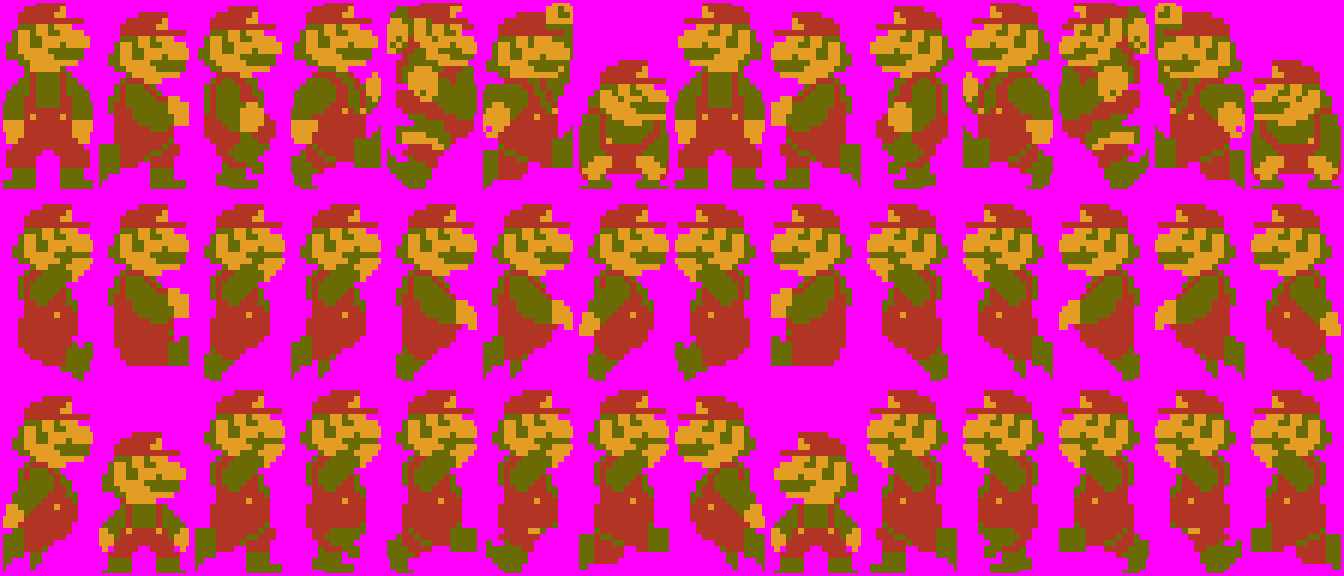
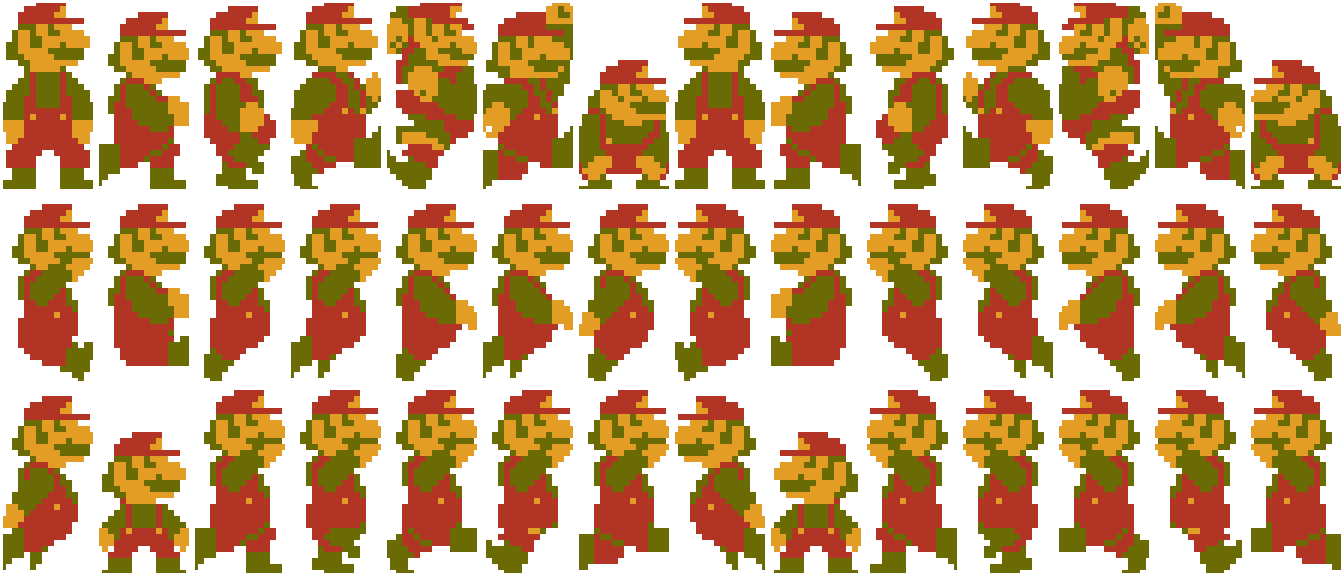
Fix transparency and tune walk animation for big_mario
- Switch spritesheet to RGBA with alpha=0 background (fixes magenta box)
- Update build_mirrored_sheet.py to generate alpha-transparent PNG
- Set transparency tag to 'transparent' to match how eSheep reads alpha PNGs
- Tune walk speed: x=11, interval=110ms for matched movement and leg cycle

diff --git a/build_mirrored_sheet.py b/build_mirrored_sheet.py
@@ -15,10 +15,10 @@ from PIL import Image
 import os
 
 SRC = r"C:\Local_Workspace\sheep\Mario.png"
-OUT = r"C:\Local_Workspace\sheep\desktopPet-master\Pets\big_mario\spritesheet_mirrored.png"
+OUT = r"C:\Local_Workspace\sheep\desktopPet-master\Pets\big_mario\big_mario_ss.png"
 
-MAGENTA = (255, 0, 255, 255)
-WHITE   = (255, 255, 255, 255)
+TRANSPARENT = (0, 0, 0, 0)
+WHITE       = (255, 255, 255, 255)
 
 # Source crop coordinates for each of the 21 frames (x-start, x-end inclusive)
 cells_x = [
@@ -62,32 +62,32 @@ for cx0, cx1 in cells_x:
     y1 = ROW0_Y[1] + 1 - TRIM
 
     cell = img.crop((x0, y0, x1, y1))
-    # Replace white background with magenta
+    # Replace white background with transparent
     pixels = cell.load()
     for py in range(cell.height):
         for px_ in range(cell.width):
             if pixels[px_, py] == WHITE:
-                pixels[px_, py] = MAGENTA
+                pixels[px_, py] = TRANSPARENT
     # Scale with NEAREST to keep crisp pixel art
     scaled = cell.resize((spr_w, spr_h), Image.NEAREST)
 
-    # Place centered in a clean magenta tile
-    tile = Image.new("RGBA", (TW, TH), MAGENTA)
-    tile.paste(scaled, (pad_x, pad_y))
+    # Place centered in a transparent tile
+    tile = Image.new("RGBA", (TW, TH), TRANSPARENT)
+    tile.alpha_composite(scaled, (pad_x, pad_y))
     tiles.append(tile)
 
 # Build 14-col x 3-row sheet
 sheet_w = TW * COLS_ORIG * 2
 sheet_h = TH * ROWS
-sheet = Image.new("RGBA", (sheet_w, sheet_h), MAGENTA)
+sheet = Image.new("RGBA", (sheet_w, sheet_h), TRANSPARENT)
 
 for idx, tile in enumerate(tiles):
     col = idx % COLS_ORIG
     row = idx // COLS_ORIG
     # Original on left half
-    sheet.paste(tile, (col * TW, row * TH))
+    sheet.alpha_composite(tile, (col * TW, row * TH))
     # Mirror on right half
-    sheet.paste(tile.transpose(Image.FLIP_LEFT_RIGHT), ((COLS_ORIG + col) * TW, row * TH))
+    sheet.alpha_composite(tile.transpose(Image.FLIP_LEFT_RIGHT), ((COLS_ORIG + col) * TW, row * TH))
 
 sheet.save(OUT)
 
